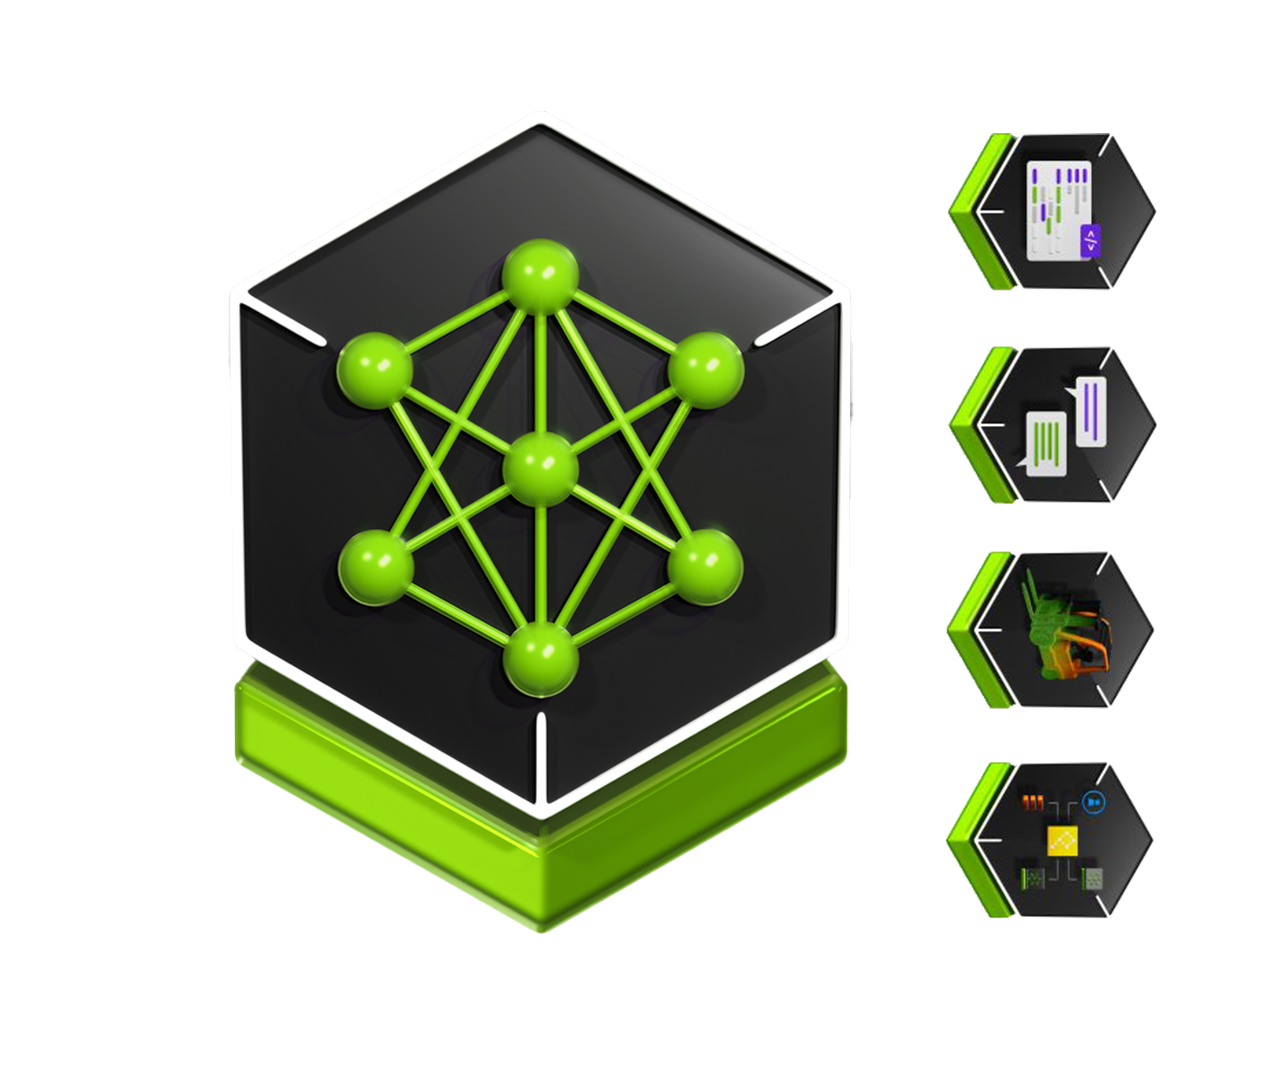
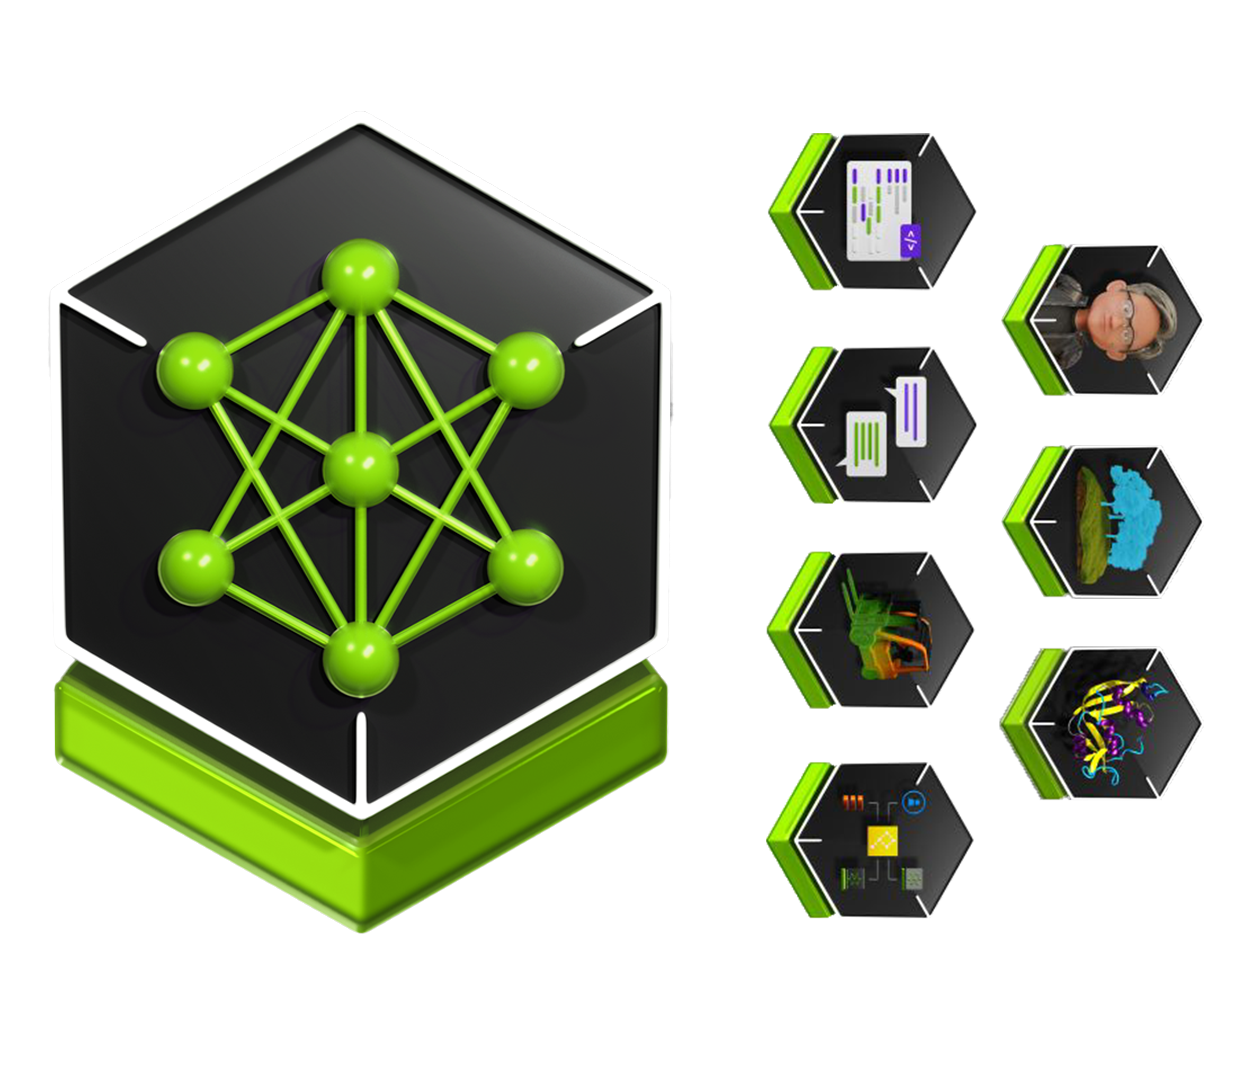
9/9_4PM

diff --git a/style.css b/style.css
@@ -26,7 +26,7 @@ a{
 
 .button1{
     background-color: var(--accent-color);
-    padding: 15px 20px;
+    padding: 10px 20px;
     border-radius: 2px;
     transition: .1s ease-out;
 }
@@ -35,7 +35,7 @@ a{
 }
 .button2{
     background-color: white;
-    padding: 15px 20px;
+    padding: 10px 20px;
     border-radius: 2px;
     border: 2px solid var(--accent-color);
     transition: .1s ease-out;
@@ -48,7 +48,7 @@ a{
 .container{
     width: 100%;
     display: grid;
-    grid-template-rows: repeat(8, 1fr);
+    grid-template-rows: repeat(9, 1fr);
     grid-template-columns:repeat(3, 1fr);
     grid-template: 
     " item1  item1  item1 " 40px
@@ -56,14 +56,15 @@ a{
     " item3  item3  item3 " 500px
     " item6  item6  item6 " 470px
     " item7  item7  item7 " 500px
-    " item9  item10  item10 " 500px
+    " item10  item10  item10 " 700px
     " item11  item11  item11 " 400px
+    " item13  item13  item13 " 400px
     " item12  item12  item12 " 400px;
 }
 
 /* HOMEPAGE MOBILE SCREEN LAYOUT */
 
-@media screen and (max-width: 1080px){
+@media screen and (max-width: 727px){
     .container{
         grid-template-rows: repeat(11, 1fr);
         grid-template-columns:repeat(1, 1fr);
@@ -74,8 +75,8 @@ a{
         " item6 " 600px
         " item7 " 500px
         " item10 " 500px
-        " item9 " 350px
         " item11 " 400px
+        " item13 " 400px
         " item12 " 400px;
     }
     
@@ -113,18 +114,17 @@ a{
 .item7{
     grid-area: item7;
 }
-
-.item9{
-    background-color:maroon;
-    grid-area: item9;
-}
 .item10{
-    background-color:palegoldenrod;
+    background-color:rgb(231, 231, 231);
     grid-area: item10;
 }
 .item11{
     background-color:lightcoral;
     grid-area: item11;
+}
+.item13{
+    background-color:red;
+    grid-area: item13;
 }
 .item12{
     background-color:rgb(88, 53, 53);
@@ -234,7 +234,7 @@ a{
 #hp-buy{
     /* background-color: black; */
     border: 3px solid var(--accent-color);
-    border-radius:5px ;
+    border-radius:10px ;
     padding: 10px 20px;
 
 }
@@ -267,7 +267,7 @@ a{
 
 .cards{
     margin: 0;
-    overflow: clip;
+    /* overflow: clip; */
     position: relative;
     top: 5%;
     border-radius: 7px;
@@ -279,13 +279,15 @@ a{
 .card1{
     margin: 0;
     border-radius: 7px;
-    background-color: var(--accent-color2);
+    background-color: white;
     height: 75%;
+    box-shadow: #838383 0px 0px 7px;
     transition: .2s ease-in-out;
 }
 
 .card1:hover{
-    box-shadow: #000000 0px 0px 20px;
+    scale: 1.01;
+    box-shadow: #4b4b4b 0px 0px 9px;
 }
 
 .item3 h1{
@@ -347,13 +349,13 @@ a{
 }
 #learn-more{
     border: 3px solid var(--accent-color2);
-    border-radius: 5px;
+    border-radius: 10px;
     padding: 10px 20px;
     transition: .2s ease-in;
 }
 #learn-more:hover{
     border: 3px solid var(--accent-color);
-    box-shadow: var(--accent-color) 0px 0px 5px;
+    box-shadow: var(--accent-color) 0px 0px 10px;
 }
 #see-all{
     margin-top: 20px;
@@ -423,9 +425,85 @@ a{
     position: relative;
     scale: .5;
     top: -155%;
-    left: 40%;
+    left: 37%;
+    -webkit-filter: drop-shadow(10px 10px 10px #505050);
+    filter: drop-shadow(10px 10px 10px #616161);
 }
 
-.item8{
+/* HOMEPAGE SECTION 10 DESIGN */
+.item10{
+    display: flex;
+    margin: 0;
+    justify-content: center;
+}
+.item10-items{
+    width: 78%;
+    margin: 1.5% 0;
+}
+.item10 h3{
     text-align: center;
+    font-family: Titillium Web, sans-serif;
+    font-size: 1.3rem;
+    margin: 1%;
+}
+.item10 h1{
+    text-align: center;
+    font-family: Lexend, sans-serif;
+    font-weight: 700;
+    color: var(--primary-color);
+    margin-bottom: 2%;
+    text-decoration: overline;
+}
+.card-text{
+    height: 75%;
+    display: flex;
+    justify-content: space-between;
+}
+.card-text-item{
+    position: relative;
+    border-radius: 5px;
+    width: 23%;
+    border: .1px solid rgb(93, 161, 108);
+    box-shadow: #686868 0px 0px 5px;
+    transition: .2s ease-out;
+    cursor: default;
+}   
+.card-text-item:hover{
+    scale: 1.01;
+    box-shadow: #13b135 0px 0px 8px;
+}
+.card-text-item img{
+    width: 100%;
+    border-radius: 5px;
+}
+.card-text-item h1 {
+    margin-left: 4%;
+    margin-top: 0;
+    text-align: left;
+    font-size: x-large;
+    text-decoration: none;
+}
+.card-text-item h3 {
+    margin-bottom: 2%;
+    margin-left: 4%;
+    text-align: left;
+}
+.card-text-item p {
+    margin-top: 3%;
+    margin-left: 4.5%;
+    margin-right: 4.5%;
+    text-align: left;
+    font-weight: 500;
+    color: var(--accent-color2);
+}
+.card-text-item a{
+    position: absolute;
+    top: 92%;
+    text-align: left;
+    margin-left: 3%;
+    font-weight: 900;
+    color: var(--primary-color);
+}
+.card-text-item a:hover{
+    color: var(--accent-color);
 }

diff --git a/index.html b/index.html
@@ -43,7 +43,7 @@
                 <a id="hp-buy" href="#">See All Buying Options</a>
             </div>
             <div class="hero-video">
-                <video autoplay muted loop src="/Assets/hp-video.mp4"></video>
+                <video autopla muted loop src="/Assets/hp-video.mp4"></video>
             </div>
             <div class="hero-bg">h</div>
         </div>
@@ -101,10 +101,48 @@
                 <img id="nim-c" src="/Assets/nim-c.png" alt="nim-c">
             </div>
         </div>
-        <div class="item item8">8</div>
-        <div class="item item9">9</div>
-        <div class="item item10">10</div>
-        <div class="item item11">11</div>
+        <div class="item item10">
+            <div class="item10-items">
+                <h3>Studio Apps And Software</h3>
+                <h1>Exclusive Creative Tools</h1>
+                <div class="card-text">
+                    <div class="card-text-item">
+                    <img src="/Assets/nvidia-broad.jpg" alt="nvidia braodcast">
+                    <h3>NVIDIA Broadcast</h3>
+                    <h1>Go Big and Go Live</h1>
+                    <p>The NVIDIA Broadcast app transforms your space into a home studio, upgrading webcams, microphones, and speakers into premium devices using the power of AI. Take your live streams, voice chats, and video conference calls to the next level with audio and video effects like noise removal, virtual background, and more.</p>
+                    <a href="#">Learn-more ></a>
+                    </div>
+                    <div class="card-text-item">
+                        <img src="/Assets/nvidia-canva.jpg" alt="nvidia braodcast">
+                        <h3>NVIDIA Canvas</h3>
+                        <h1>Put the AI in Painting</h1>
+                        <p>Use AI to turn simple brushstrokes into realistic landscape images with the NVIDIA Canvas app. Create backgrounds quickly, or speed up your concept exploration so you can spend more time visualizing ideas. With Canvas’ AI on your project team, the creative possibilities are endless.</p>
+                        <a href="#">Learn-more ></a>
+                    </div>
+                    <div class="card-text-item">
+                        <img src="/Assets/nvidia-omni.jpg" alt="nvidia braodcast">
+                        <h3>NVIDIA Omniverse</h3>
+                        <h1>Connect Your Creative Worlds</h1>
+                        <p>Connect your favorite apps from Autodesk, Adobe, Epic, and more to NVIDIA Omniverse™ and open a whole new universe of speed and possibility. Whether making animated films, or breathtaking pieces of digital art and design.</p>
+                        <a href="#">Learn-more ></a>
+                    </div>
+                    <div class="card-text-item">
+                        <img src="/Assets/nvidia-rtx.jpg" alt="nvidia braodcast">
+                        <h3>NVIDIA RTX Remix</h3>
+                        <h1>Remaster the Classics</h1>
+                        <p>Built on Omniverse, RTX Remix allows modders to easily capture game assets, automatically enhance materials with powerful AI tools, and quickly create stunning RTX remasters with ray tracing and DLSS.</p>
+                        <a href="#">Learn-more ></a>
+                    </div>
+                </div>
+            </div>
+        </div>
+        <div class="item item11">
+            helo
+        </div>
+        <div class="item item13">
+            helo
+        </div>
         <div class="item item12">12</div>
     </div>
 </body>
